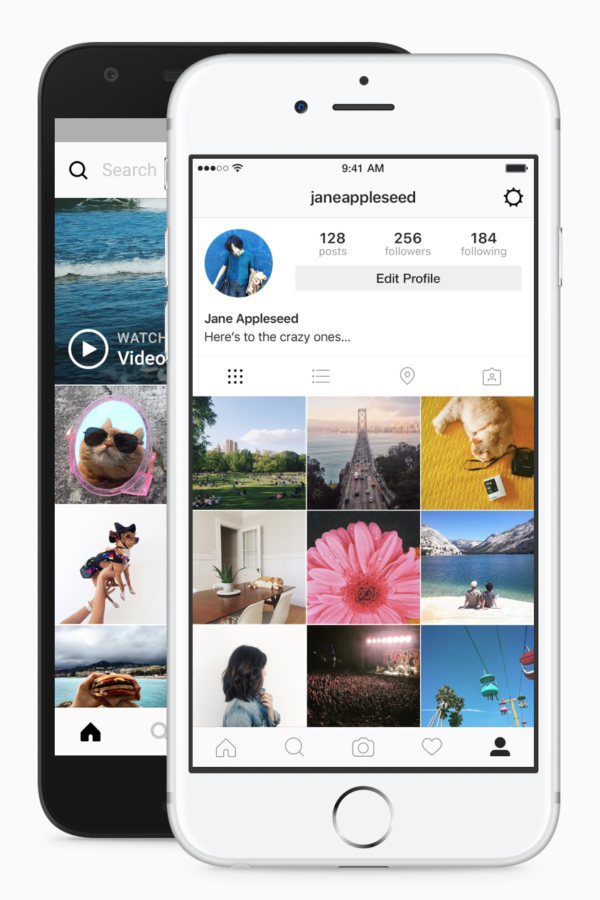
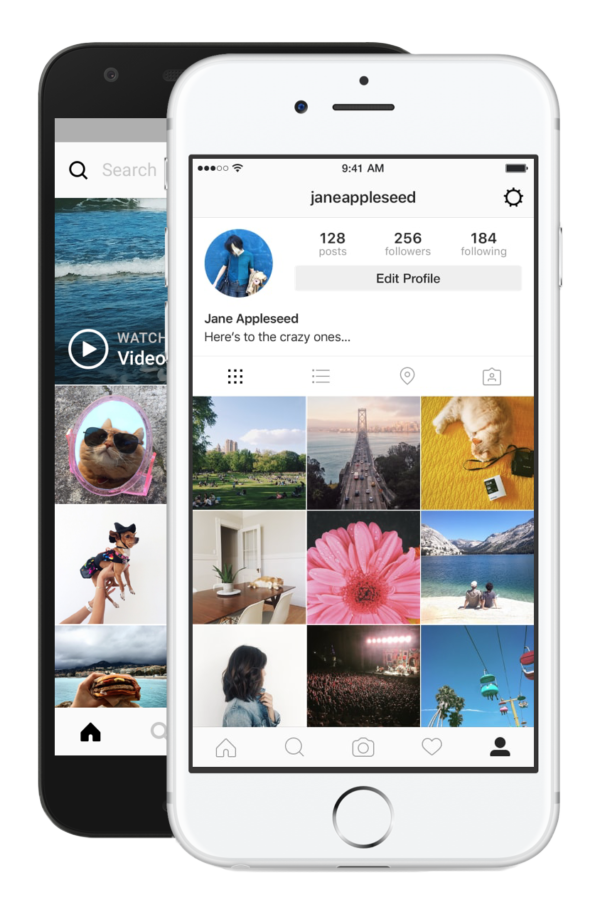
Aplicando a imagem instagram-preview com fundo transparente e fazendo pequenos ajustes no CSS.

Changed region(s): [[0.06, 0.1244, 0.09, 0.8711], [0.09, 0.9022, 0.3, 0.9644]]

diff --git a/style.css b/style.css
@@ -13,26 +13,29 @@ body{
     background-color: #FAFAFA;
     display: flex;
     justify-content: center;
+    align-items: flex-start;
 }
 
 article{
     margin-top: 32px;
     display: flex;
     justify-content: start;
+    align-items: center;
 }
 
 /* LADO ESQUERDO DA PÁGINA (Imagem do smartphone com o Instagram aberto) */
-.phone-preview{
+.instagram-preview{
     width: 50%;
+    margin-right: 40px;
 }
-.phone-preview img{
+.instagram-preview img{
     width: 100%;
 }
 
 /* LADO DIREITO DA PÁGINA (Login e Logout)*/
-.join-in{
+.instagram-continue{
     width: 40%;
-    margin-top: 32px;
+    align-items: center;
 }
 
 .group{
@@ -112,12 +115,16 @@ article{
         width: 90%;
     }
 
-    .phone-preview {
+    .instagram-preview {
         display: none;
     }
 
-    .join-in {
+    .instagram-continue {
         width: 100%;
+    }
+
+    .download{
+        width: auto;
     }
     
     .group {

diff --git a/index.html b/index.html
@@ -9,10 +9,10 @@
 </head>
 <body>
     <article>
-        <div class="phone-preview">
+        <div class="instagram-preview">
             <img src="img/instagram-preview.png" alt="smartphone com instagram aberto">
         </div>
-        <div class="join-in">
+        <div class="instagram-continue">
             <div class="group">
                 <img src="img/instagram-logo.png" class="instagram-logo" alt="logo tipografico instagram">
                 <div>
